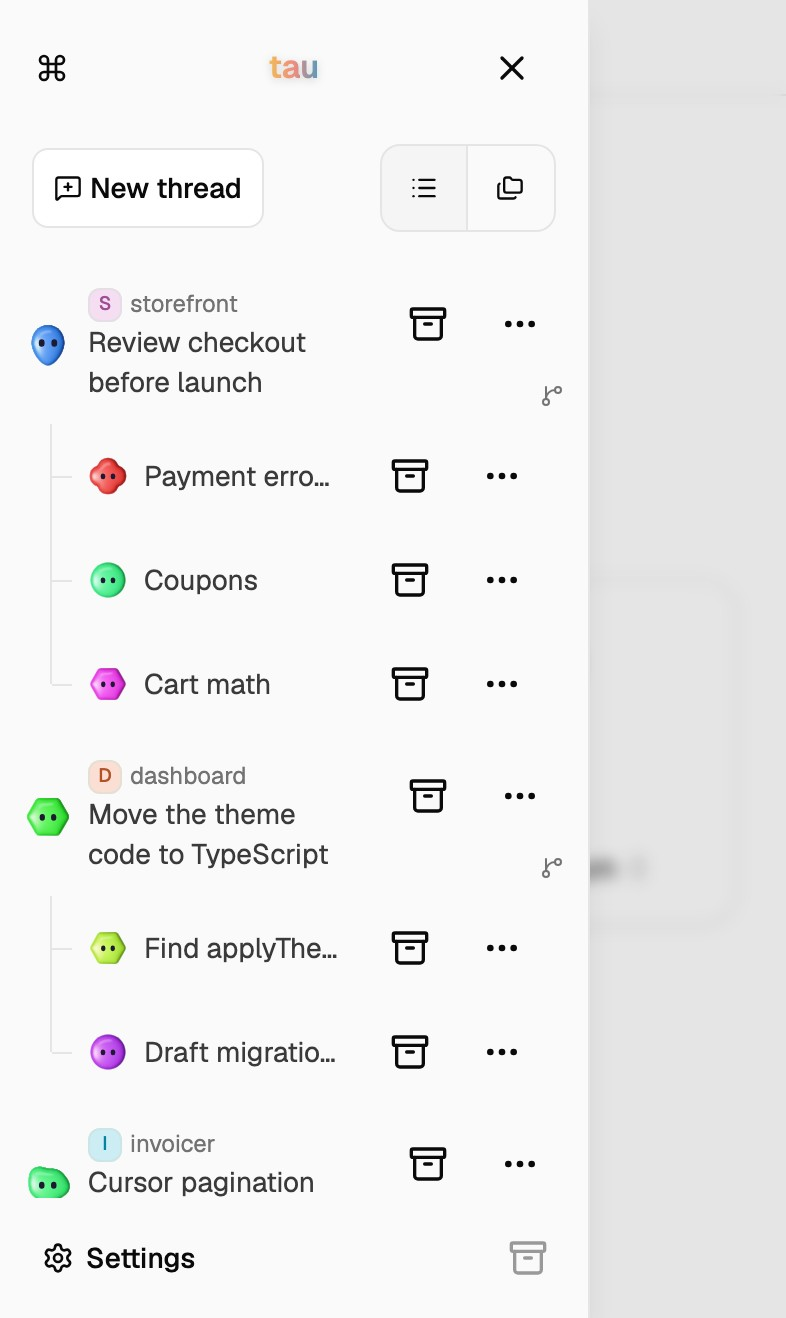
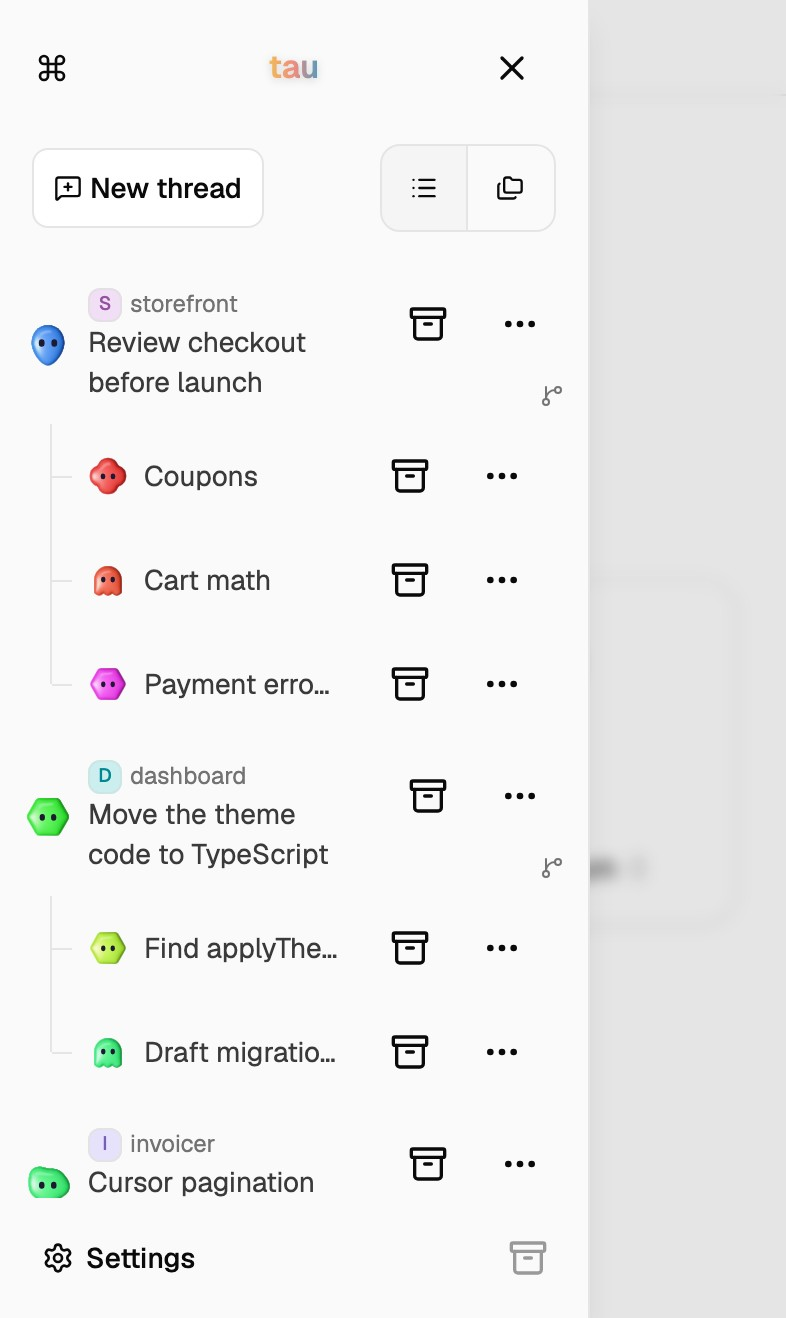
Fix coarse touch targets crushing explicit sizes (min-height, not height)

diff --git a/packages/web/src/components/ui/button.tsx b/packages/web/src/components/ui/button.tsx
@@ -21,10 +21,10 @@ const buttonVariants = cva(
       },
       size: {
         default:
-          "h-8 gap-1.5 px-2.5 has-data-[icon=inline-end]:pr-2 has-data-[icon=inline-start]:pl-2 pointer-coarse:h-11 pointer-coarse:px-3",
+          "h-8 gap-1.5 px-2.5 has-data-[icon=inline-end]:pr-2 has-data-[icon=inline-start]:pl-2 pointer-coarse:min-h-11 pointer-coarse:px-3",
         xs: "h-6 gap-1 rounded-[min(var(--radius-md),10px)] px-2 text-xs in-data-[slot=button-group]:rounded-lg has-data-[icon=inline-end]:pr-1.5 has-data-[icon=inline-start]:pl-1.5 [&_svg:not([class*='size-'])]:size-3",
-        sm: "h-7 gap-1 rounded-[min(var(--radius-md),12px)] px-2.5 text-[0.8rem] in-data-[slot=button-group]:rounded-lg has-data-[icon=inline-end]:pr-1.5 has-data-[icon=inline-start]:pl-1.5 pointer-coarse:h-10 pointer-coarse:text-sm [&_svg:not([class*='size-'])]:size-3.5",
-        lg: "h-9 gap-1.5 px-2.5 has-data-[icon=inline-end]:pr-2 has-data-[icon=inline-start]:pl-2 pointer-coarse:h-12",
+        sm: "h-7 gap-1 rounded-[min(var(--radius-md),12px)] px-2.5 text-[0.8rem] in-data-[slot=button-group]:rounded-lg has-data-[icon=inline-end]:pr-1.5 has-data-[icon=inline-start]:pl-1.5 pointer-coarse:min-h-10 pointer-coarse:text-sm [&_svg:not([class*='size-'])]:size-3.5",
+        lg: "h-9 gap-1.5 px-2.5 has-data-[icon=inline-end]:pr-2 has-data-[icon=inline-start]:pl-2 pointer-coarse:min-h-12",
         icon: "size-8 pointer-coarse:size-11 pointer-coarse:[&_svg:not([class*='size-'])]:size-5",
         "icon-xs":
           "size-6 rounded-[min(var(--radius-md),10px)] in-data-[slot=button-group]:rounded-lg pointer-coarse:size-11 pointer-coarse:[&_svg:not([class*='size-'])]:size-5 [&_svg:not([class*='size-'])]:size-3",
